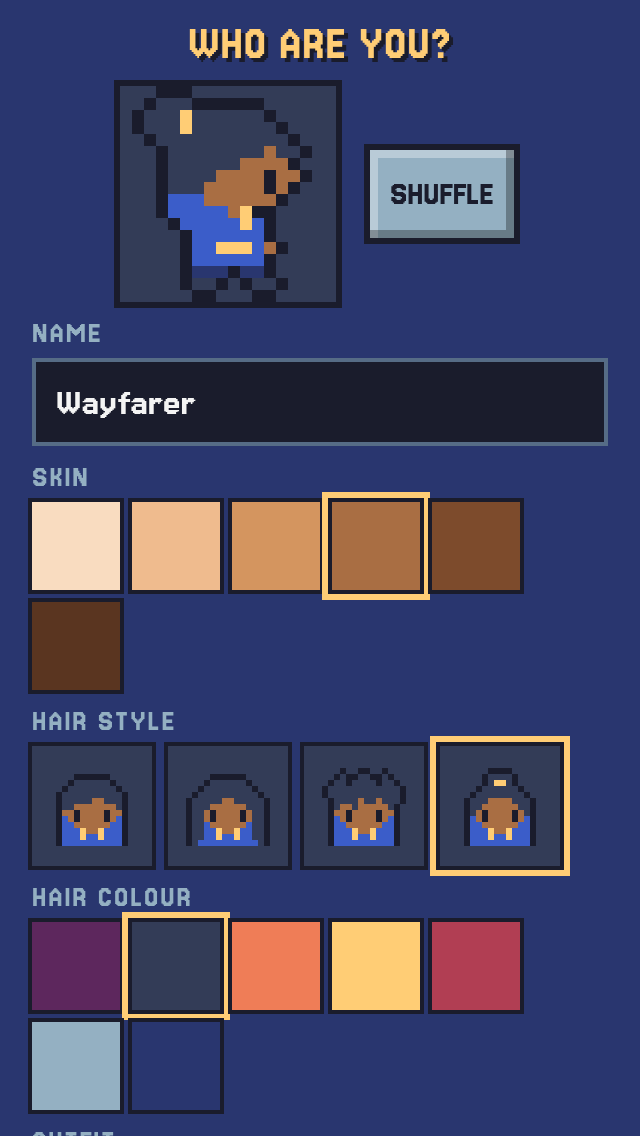
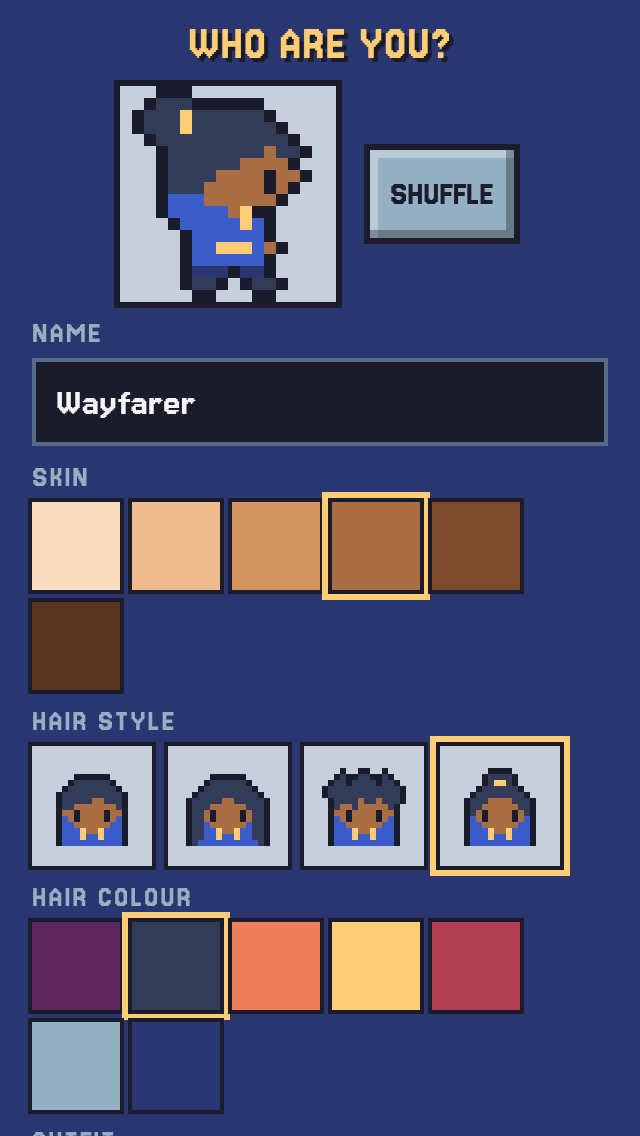
Look picker: keeper previews on a light backdrop (dark hair 'd' matched the old --d background and vanished)

diff --git a/style.css b/style.css
@@ -233,7 +233,8 @@ input{font-family:var(--font);font-size:21px;padding:12px;background:var(--k);co
 .overlay.full .ov-inner{max-width:480px;max-height:none;height:100%;margin:0 auto;box-shadow:none;gap:8px;
   padding:calc(10px + env(safe-area-inset-top)) 16px calc(10px + env(safe-area-inset-bottom))}
 .look-top{display:flex;align-items:center;justify-content:center;gap:14px}
-.look-top canvas{width:108px;height:108px;background:var(--d);box-shadow:0 0 0 3px var(--k)}
+/* keeper previews sit on a light backdrop that matches none of the look colours (hair 'd' = --d vanished on the old dark one) */
+.look-top canvas{width:108px;height:108px;background:#c7cfdd;box-shadow:0 0 0 3px var(--k)}
 .look-top .btn{min-height:44px;font-size:18px}
 .look-row{display:flex;flex-direction:column;gap:4px}
 .look-lb{font-size:16px;color:var(--h);letter-spacing:1px}
@@ -241,7 +242,7 @@ input{font-family:var(--font);font-size:21px;padding:12px;background:var(--k);co
 .swatches{display:grid;grid-template-columns:repeat(auto-fill,44px);gap:6px}
 .swatch{width:44px;height:44px;border:0;padding:0;box-shadow:0 0 0 2px var(--k);cursor:pointer}
 .previews{display:flex;flex-wrap:wrap;gap:8px}
-.preview{min-width:60px;min-height:60px;display:flex;align-items:center;justify-content:center;background:var(--d);border:0;padding:2px;
+.preview{min-width:60px;min-height:60px;display:flex;align-items:center;justify-content:center;background:#c7cfdd;border:0;padding:2px;
   box-shadow:0 0 0 2px var(--k);cursor:pointer}
 .preview canvas{display:block;image-rendering:pixelated}
 .swatch.on,.preview.on{box-shadow:0 0 0 2px var(--k),0 0 0 5px var(--y)}
